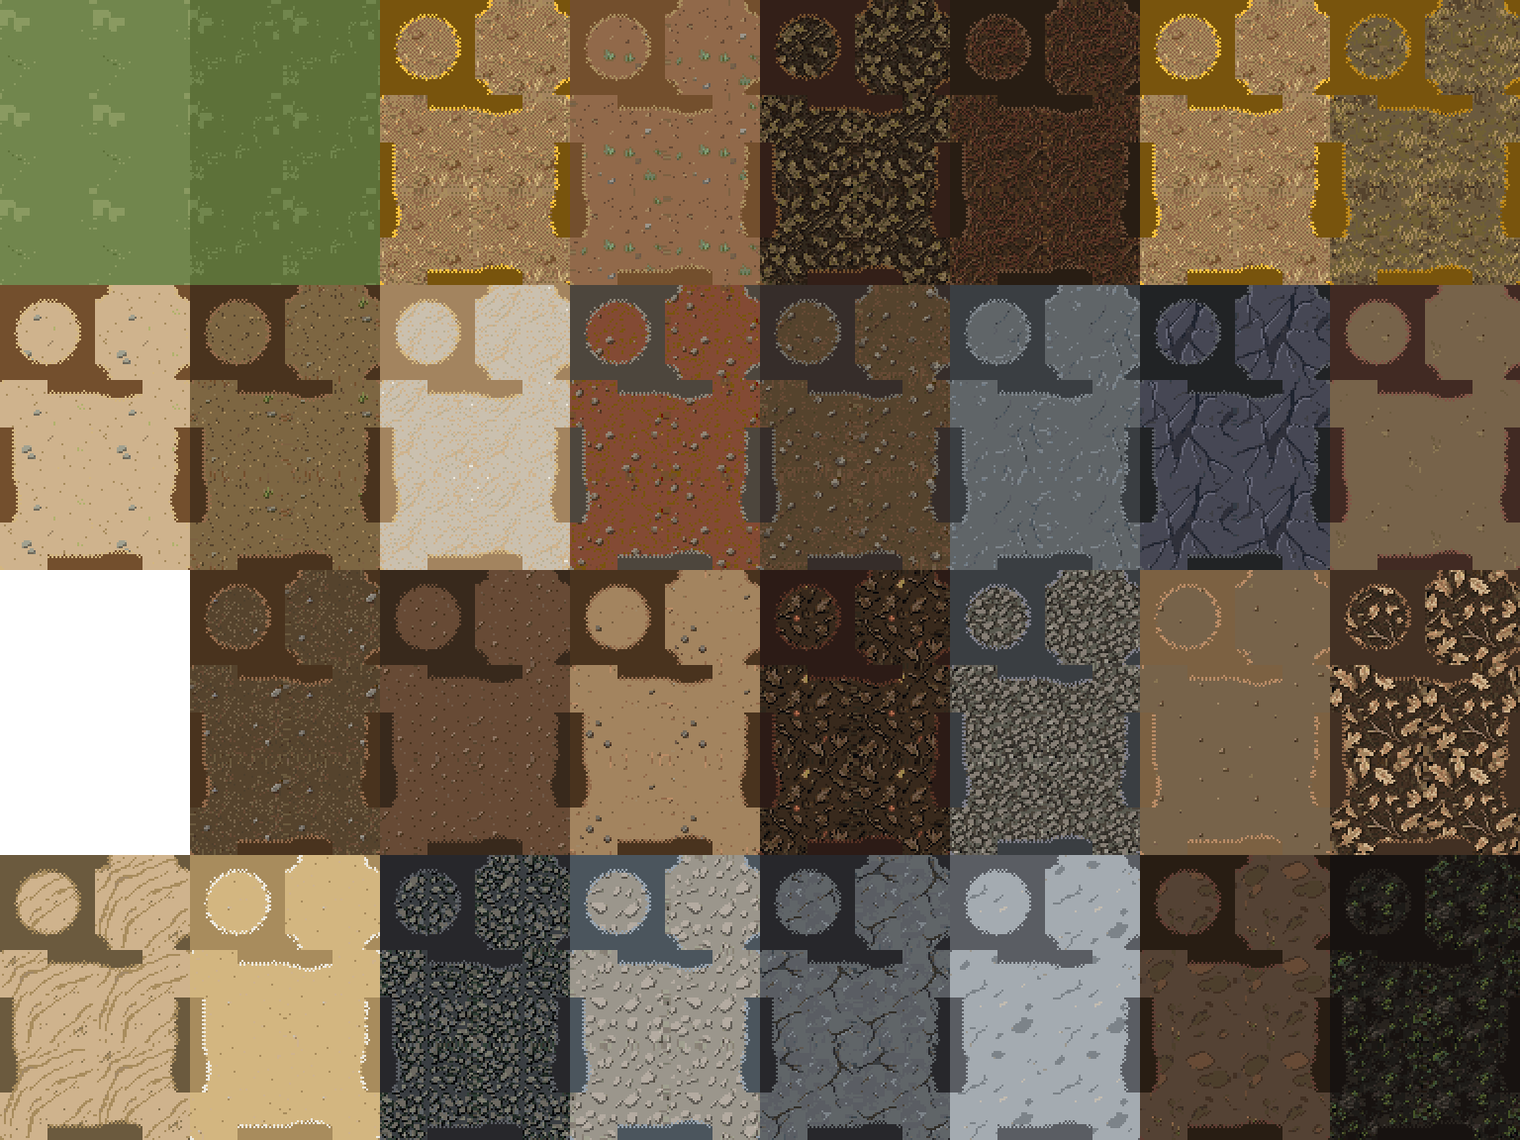
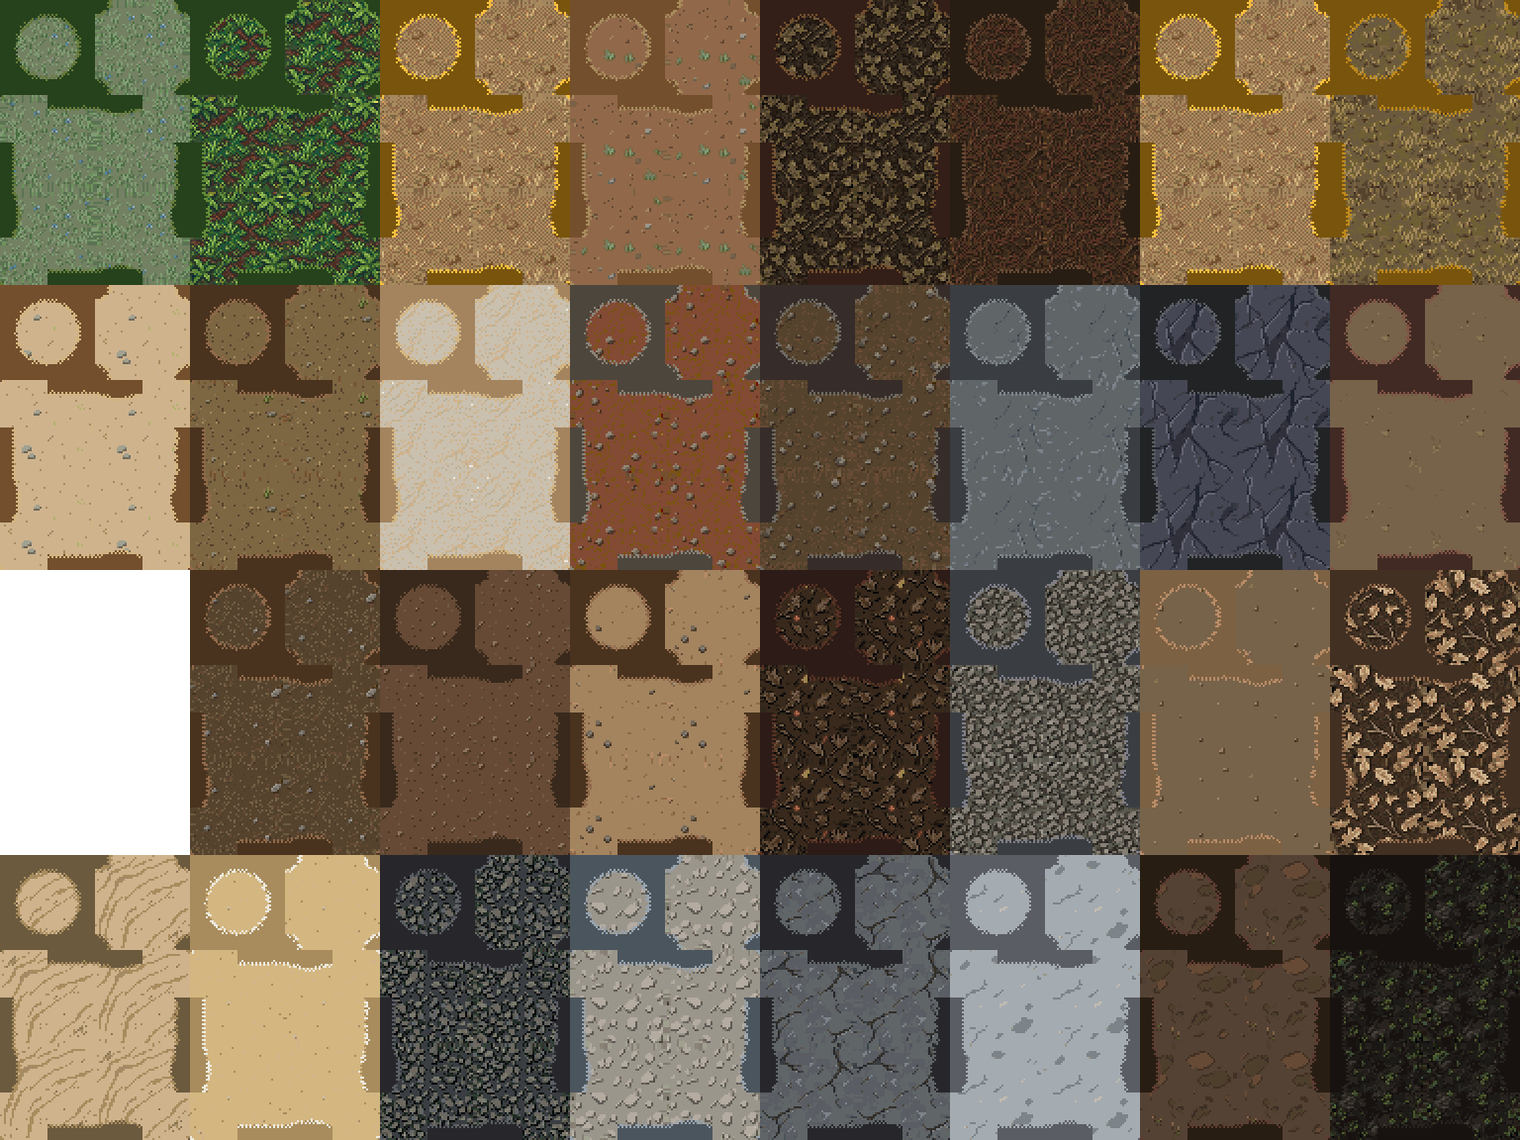
[codex] ART.GROUND.INDUCT place Owner base grasses

Changed region(s): [[0.0, 0.0, 0.25, 0.25]]

diff --git a/tools/art/verify_specimens_rgb.js b/tools/art/verify_specimens_rgb.js
@@ -4,15 +4,20 @@ const {selectedTile,buildA2Block,SPECS}=require('./induct_all_ground_tiles');
 const kept=require('./ground_kept_sets.json');
 const ROOT=path.resolve(__dirname,'../..');
 const mutant=process.argv.find(a=>a.startsWith('--mutant='))?.split('=')[1];
+const sheetRef=process.argv.find(a=>a.startsWith('--sheets-from='))?.split('=')[1];
 function fail(message){throw Error('[FAIL] '+message)}
-function image(name,w,h){const p=path.join(ROOT,'game/img/tilesets',name);if(!fs.existsSync(p))fail('missing '+name);const im=decodePNG(fs.readFileSync(p));if(im.width!==w||im.height!==h)fail(name+' dimensions '+im.width+'x'+im.height);return im}
+function image(name,w,h){const p=path.join(ROOT,'game/img/tilesets',name);if(!sheetRef&&!fs.existsSync(p))fail('missing '+name);const bytes=sheetRef?cp.execFileSync('git',['show',sheetRef+':game/img/tilesets/'+name],{cwd:ROOT,maxBuffer:8*1024*1024}):fs.readFileSync(p);const im=decodePNG(bytes);if(im.width!==w||im.height!==h)fail(name+' dimensions '+im.width+'x'+im.height);return im}
 function block(im,slot){const out=Buffer.alloc(96*144*4),x=(slot%8)*96,y=Math.floor(slot/8)*144;for(let row=0;row<144;row++)im.data.copy(out,row*96*4,((y+row)*768+x)*4,((y+row)*768+x+96)*4);return out}
 function baseline(name){return decodePNG(cp.execFileSync('git',['show','a5255704:game/img/tilesets/'+name],{cwd:ROOT,maxBuffer:8*1024*1024}))}
+function mainSheet(name){return decodePNG(cp.execFileSync('git',['show','origin/main:game/img/tilesets/'+name],{cwd:ROOT,maxBuffer:8*1024*1024}))}
 function swatch(im,i){const out=Buffer.alloc(48*48*4),x=(Math.floor(i/128)*8+i%8)*48,y=Math.floor((i%128)/8)*48;for(let row=0;row<48;row++)im.data.copy(out,row*48*4,((y+row)*768+x)*4,((y+row)*768+x+48)*4);return out}
-function masterSwatch(outside,slot){const out=Buffer.alloc(48*48*4),x=slot*96+24,y=72;for(let row=0;row<48;row++)outside.data.copy(out,row*48*4,((y+row)*768+x)*4,((y+row)*768+x+48)*4);return out}
+const MASTER={meadow:{folder:'SURFACE_SHARED_TERRAIN_MEADOW_V1_DEFAULT',slot:0,edge:'#26421C',hi:'#5D7139'},tropical_grass:{folder:'SURFACE_SHARED_TERRAIN_TROPICAL-GRASS_V1_DEFAULT',slot:1,edge:'#1B3B18',hi:'#6E8A38'}};
+function masterTile(key){const file=path.join(ROOT,'art/masters/source_sets',MASTER[key].folder,'variant_0.png'),im=decodePNG(fs.readFileSync(file));if(im.width!==48||im.height!==48)fail(key+' master dimensions');return Buffer.from(im.data)}
 try{
  const blocks={},tiles={};
  for(const [key,spec] of Object.entries(SPECS)){tiles[key]=selectedTile(key);blocks[key]=buildA2Block(tiles[key],spec.edge,spec.hi)}
+ for(const [key,spec] of Object.entries(MASTER)){tiles[key]=masterTile(key);blocks[key]=buildA2Block(tiles[key],spec.edge,spec.hi)}
+ const mainOutside=mainSheet('Outside_A2.png'),mainD=mainSheet('Outside_D.png');
  for(const [name,selection] of [['Outside_A2.png',kept.expectedOutsideSlots],['Dungeon_A2.png',kept.expectedDungeonSlots]]){
   const actual=image(name,768,576),old=baseline(name);
   const order=name==='Outside_A2.png'?[4,...Array.from({length:32},(_,i)=>i).filter(i=>i!==4)]:Array.from({length:32},(_,i)=>i);
@@ -21,20 +26,24 @@ try{
    const expected=key&&blocks[key]?blocks[key]:block(old,slot);
    let got=block(actual,slot);
    if(mutant==='outside-source'&&name==='Outside_A2.png'&&slot===4)got=blocks.shrub_soil_base;
-   if(key&&!(name==='Outside_A2.png'&&slot<2)&&got.every((value,index)=>index%4!==3||value===0))fail(name+' slot '+slot+' fully transparent');
+   if(mutant==='grass-slot-'+slot&&name==='Outside_A2.png'&&slot<2)got=block(mainOutside,slot);
+   if(key&&got.every((value,index)=>index%4!==3||value===0))fail(name+' slot '+slot+' fully transparent');
    if(!got.equals(expected))fail(name+' slot '+slot+' is not '+(key||'the specified baseline exception'));
+   if(name==='Outside_A2.png'&&slot<2&&got.equals(block(mainOutside,slot)))fail(name+' slot '+slot+' still equals origin/main');
   }
   console.log('[OK] '+name+' 32 slots match table sets, stand-ins or named baseline exceptions');
  }
  image('Outside_A1.png',768,576);
  const gallery=image('DEUS_GroundVar_D.png',768,768),outsideD=image('Outside_D.png',768,768);
  if(!gallery.data.equals(outsideD.data))fail('Outside_D differs from gallery');
- const oldOutside=baseline('Outside_A2.png');
  for(let i=0;i<256;i++){
-  const key=kept.expectedGallerySlots[i],got=swatch(gallery,i);
+  const key=kept.expectedGallerySlots[i];let got=swatch(gallery,i);
+  if(mutant==='grass-d-'+i&&i<2)got=swatch(mainD,i);
   if(!key){if(got.some(Boolean))fail('extra gallery pixel '+i);continue}
-  const expected=key==='meadow'||key==='tropical_grass'?masterSwatch(oldOutside,key==='meadow'?0:1):tiles[key];
+  const expected=tiles[key];
   if(!got.equals(expected))fail('gallery swatch '+i+' '+key);
+  if(i<2&&got.equals(swatch(mainD,i)))fail('Outside_D swatch '+i+' still equals origin/main');
  }
- console.log('[OK] gallery and Outside_D match all 34 kept sets, two owner masters and three stand-in swatches');
+ console.log('[OK] gallery and Outside_D match all 34 kept sets, two Owner masters and three stand-in swatches');
+ console.log('[OK] Outside A2 slots 0/1 and Outside D swatches 0/1 derive from Owner masters and differ from origin/main');
 }catch(e){console.error(e.message);process.exit(1)}

diff --git a/tools/art/induct_all_ground_tiles.js b/tools/art/induct_all_ground_tiles.js
@@ -5,8 +5,8 @@
  * tools/art/induct_all_ground_tiles.js
  *
  * Places the ground set table from both Owner backup batches. Missing dry and
- * damp variants borrow their placed base block. The two missing base kinds
- * retain their pre-lane pixels.
+ * damp variants borrow their placed base block. The two base grasses come
+ * from the Owner masters carried over from lane-cy.
  */
 
 const fs = require('fs');
@@ -215,6 +215,10 @@ const STAND_INS = [
   'Dungeon A2 slot 6 swamp_mud_dry retains its stock block (PM exception): no kept base set, and a blank autotile draws nothing',
   'Dungeon A2 slot 1 dug_earth retains its stock block: no kept set'
 ];
+const OWNER_MASTERS = {
+  meadow: {folder:'SURFACE_SHARED_TERRAIN_MEADOW_V1_DEFAULT',edge:'#26421C',hi:'#5D7139'},
+  tropical_grass: {folder:'SURFACE_SHARED_TERRAIN_TROPICAL-GRASS_V1_DEFAULT',edge:'#1B3B18',hi:'#6E8A38'}
+};
 
 function sourceFile(id,fillTile) {
   const filename=id+'__'+String(fillTile).padStart(2,'0')+'.png';
@@ -246,10 +250,11 @@ function selectedTile(key) {
 function blit(dst,dstWidth,src,srcWidth,x0,y0,w,h) {
   for(let y=0;y<h;y++)src.copy(dst,((y0+y)*dstWidth+x0)*4,y*srcWidth*4,(y*srcWidth+w)*4);
 }
-function masterFromBaseline(outside,slot) {
-  const tile=Buffer.alloc(48*48*4),x=slot*96+24,y=72;
-  for(let row=0;row<48;row++)outside.copy(tile,row*48*4,((y+row)*768+x)*4,((y+row)*768+x+48)*4);
-  return tile;
+function ownerMasterTile(key) {
+  const file=path.join(ROOT,'art/masters/source_sets',OWNER_MASTERS[key].folder,'variant_0.png');
+  const img=decodePNG(fs.readFileSync(file));
+  if(img.width!==48 || img.height!==48) throw Error('Owner master dimensions: '+file);
+  return Buffer.from(img.data);
 }
 function baseline(name) {
   // Fixed lane opening SHA is the pre-induction game. It remains available in gate clones.
@@ -278,10 +283,15 @@ function build() {
     },null,2)+'\n');
     console.log('SOURCE',key,id,fillTile);
   }
+  for(const [key,spec] of Object.entries(OWNER_MASTERS)) {
+    tiles[key]=ownerMasterTile(key);
+    blocks[key]=buildA2Block(tiles[key],spec.edge,spec.hi);
+    console.log('OWNER_MASTER',key,spec.folder);
+  }
   const outside=baseline('Outside_A2.png');
   const dungeon=baseline('Dungeon_A2.png');
   for(const [slot,key] of Object.entries(OUTSIDE_SLOTS)) {
-    if(!key || key==='meadow' || key==='tropical_grass')continue;
+    if(!key)continue;
     const n=Number(slot);blit(outside,768,blocks[key],96,(n%8)*96,Math.floor(n/8)*144,96,144);
   }
   for(const [slot,key] of Object.entries(DUNGEON_SLOTS)) {
@@ -292,8 +302,6 @@ function build() {
   writePNG(path.join(outDir,'Outside_A2.png'),768,576,outside);
   writePNG(path.join(outDir,'Dungeon_A2.png'),768,576,dungeon);
   const gallery=Buffer.alloc(768*768*4);
-  tiles.meadow=masterFromBaseline(outside,0);
-  tiles.tropical_grass=masterFromBaseline(outside,1);
   for(const [index,key] of Object.entries(GALLERY_SLOTS)) {
     const i=Number(index),x=(i%8)*48,y=Math.floor(i/8)*48;
     blit(gallery,768,tiles[key],48,x,y,48,48);

diff --git a/tasks/ART.GROUND.INDUCT/lane-cy2/REPORT.md b/tasks/ART.GROUND.INDUCT/lane-cy2/REPORT.md
@@ -1,88 +1,75 @@
-# ART.GROUND.INDUCT lane-cy2 fix report — 2026-10-01
+# ART.GROUND.INDUCT lane-cy2 writer report — 2026-10-01
 
-This report covers the fix after Grok's review of `86c51fd9`. The earlier `WRITER_REPORT.md` records that superseded 15-set attempt.
+This records the repair after Grok's review of `f35297c6`. The review file and brief were read and left unchanged. The previous screenshots and test details remain in Git history; only checks listed below were run for this repair.
 
 ## What changed
 
-- `tools/art/ground_kept_sets.json`: mapped all 34 set-bearing rows of the brief's table to their kept PixelLab IDs, solid tile index, slot, and catalogue source ID. The allowlist contains those 34 IDs and two unselected alternatives; no deleted ID is present. Meadow and tropical grass remain the two existing Owner masters.
-- `tools/art/induct_all_ground_tiles.js` and `art/masters/source_sets/*`: read the 2026-09-30 and 2026-10-01 backups, palette-snap the selected solid tiles, rebuild A2/D sheets, and record source provenance. Outside slot 6 borrows the newly placed dry grass base; Dungeon slots 3 and 4 borrow the newly placed peak rock base. Outside slot 16 retains main's transparent swamp mud base. Dungeon slot 6 retains its stock swamp mud dry block as the PM exception, and slot 1 retains stock dug earth.
-- `game/img/tilesets/{Outside_A2,Dungeon_A2,Outside_D,DEUS_GroundVar_D}.png`: placed the table's sets and stand-ins in the existing slot layout. Outside A2 slots 0 and 1 and the stock Outside A1 sheet remain unchanged.
-- `game/data/Tilesets.json`: set `tilesetNames[7]` to `Outside_D` on tilesets 2 and 4. `set_outside_d.js` made the parsed-array edit and wrote the existing one-line-per-tileset format. Git reports a two-line replacement.
-- `tools/art/verify_specimens_rgb.js` and `tools/art/test_ground_kept_sets.js`: check every table-mapped RGB block against its own source, reject transparent mapped slots, enforce the named base/stock exceptions, check D gallery swatches, and require the D name on exactly tilesets 2 and 4.
-- `art/catalogue/*` and `docs/art/catalogue/*`: rebuilt after the sheet change; the generated files were byte-identical to the existing catalogue outputs, so they have no Git diff.
-- `tasks/ART.GROUND.INDUCT/lane-cy2/{regression_86.js,render_ground_boards.js,evidence/*}`: reproducible baseline rejection, 2× boards, and New Game snapshot evidence.
+- `art/masters/source_sets/SURFACE_SHARED_TERRAIN_MEADOW_V1_DEFAULT/` and `SURFACE_SHARED_TERRAIN_TROPICAL-GRASS_V1_DEFAULT/`: copied both Owner master folders from `origin/task/lane-cy` with `git checkout`. Their source PNG pixels were not edited.
+- `tools/art/induct_all_ground_tiles.js`: read each `variant_0.png` as the 48×48 base tile; use lane-cy's meadow and tropical edge/highlight values in `buildA2Block`, place the blocks in Outside A2 slots 0 and 1, and place the base tiles in D swatches 0 and 1. Removed both baseline-grass copies and the skip. The other table mappings and no-set exceptions remain as previously reviewed.
+- `game/img/tilesets/Outside_A2.png`, `Outside_D.png`, and `DEUS_GroundVar_D.png`: rebuilt with those two master grasses. The converter also rebuilt `Dungeon_A2.png`, which was byte-identical to the prior file.
+- `tools/art/verify_specimens_rgb.js`: independently reconstruct both blocks and swatches from the master PNGs, require the four placements to differ from `origin/main`, and support reading a historical sheet ref for regression checks. The prior all-slot and gallery checks still run.
+- `tasks/ART.GROUND.INDUCT/lane-cy2/evidence/outside_a2_all_32_2x.png`: regenerated the complete 32-slot board at 2× and opened it.
+- Ran `node tools/art/build_catalogue.js`. It reported 12 files written; the generated catalogue files had no Git diff.
 
 ## How I tested it
 
-- Opened the 2× source pair board. Each row shows tile 0 on the left and tile 15 on the right, in `ground_kept_sets.json` key order. The brief's selected side reads as its named terrain; for example, sand damp uses the tan tile while its other solid tile is meadow green. No `fillTile` correction was needed.
-- `node tasks/ART.GROUND.INDUCT/lane-cy2/regression_86.js` temporarily substituted the exact 86c51fd9 A2 and Tilesets bytes, ran the new checks in the foreground, and restored the current bytes in a `finally` block:
-  ```text
-  86c51fd9 A2 RGB check exit=1
-  [FAIL] Outside_A2.png slot 4 fully transparent
-  86c51fd9 D sheet check exit=1
-  [FAIL] Tilesets 2 D sheet must be Outside_D and be the only name change
-  ```
-- Named mutants at the repaired tip also exited 1: `--mutant=outside-source` reported `[FAIL] Outside_A2.png slot 4 is not forest_floor_base`; `--mutant=d-name` reported `[FAIL] Tilesets 2 D sheet must be Outside_D and be the only name change`.
-- Rebuilt the catalogue with `node tools/art/build_catalogue.js`: `BUILD: OK (10194 entries, 206 sheets, 242 outOfScope, 12 files written)`.
-- Ran the manifest's five `gateTests` commands in the foreground, one at a time, after the rebuild:
+- Before rebuilding sheets, ran the new verifier against the worktree's unchanged f35297c6 images. It exited 1: `[FAIL] Outside_A2.png slot 0 is not meadow`. After rebuilding, the explicit historical run `node tools/art/verify_specimens_rgb.js --sheets-from=f35297c6` gave the same exit 1 and message. `HEAD:game/img/tilesets/Outside_A2.png` and `f35297c6:game/img/tilesets/Outside_A2.png` both had Git blob `568eddd62f44b0fbe61b3611929c09b37c8e8bea` before rebuilding.
+- Compared the rebuilt A2 blocks 0 and 1 with `origin/task/lane-cy:game/img/tilesets/Outside_A2.png`: both byte comparisons printed `true`.
+- Mutated each grass placement separately in the verifier, substituting main's tiles. All four runs exited 1: `grass-slot-0` → `[FAIL] Outside_A2.png slot 0 is not meadow`; `grass-slot-1` → `[FAIL] Outside_A2.png slot 1 is not tropical_grass`; `grass-d-0` → `[FAIL] gallery swatch 0 meadow`; `grass-d-1` → `[FAIL] gallery swatch 1 tropical_grass`.
+- Ran all five `lane.json` gate commands in the foreground, one at a time, after rebuilding:
+
   ```text
   node tools/check_deus_syntax.js                 exit=0  Checked 62 DEUS plugin files. Errors: 0
-  node tools/art/verify_specimens_rgb.js          exit=0  Outside A2 32 slots; Dungeon A2 32 slots; gallery and Outside D matched
-  node tools/art/test_ground_kept_sets.js         exit=0  34 table sets, Map001 identity, and Tilesets 2/4 Outside_D passed
+  node tools/art/verify_specimens_rgb.js          exit=0  [OK] Outside A2 slots 0/1 and Outside D swatches 0/1 derive from Owner masters and differ from origin/main
+  node tools/art/test_ground_kept_sets.js         exit=0  [OK] Tilesets 2/4 load Outside_D; diff touches only those two one-line entries and their D names
   node tools/art/build_catalogue.js --check       exit=0  CHECK: OK (12 generated files match)
   node tools/art/test_catalogue.js                exit=0  50/50 checks passed
   ```
-- Updated the disposable lane-cy2 game copy with the repaired sheets and Tilesets JSON, then ran `node tools/run_tests.js ground_evidence --game <disposable copy>` in the foreground. Its New Game run reported `RESULT: 3 passed, 0 failed (exit 0)`. Both screenshots were opened.
 
 ## Evidence
 
-- [Outside A2 all 32 slots at 2×](evidence/outside_a2_all_32_2x.png): opened; eight columns by four rows show meadow/grass, soil, forest litter, rock, mud, dirt, scree and sand. Slot 16 at row 3 column 1 is the sole blank, matching the no-base-set exception. Some selected sets show the seams noted in the brief.
-- [Source solid pairs at 2×](evidence/source_solid_pairs_2x.png): opened; all 34 selected sets show tile 0 beside tile 15 in JSON key order, allowing the named terrain to be distinguished from its partner.
-- [New Game ground kinds at 2×](evidence/new_game_ground_kinds_fix_2x.png): opened; adjacent bands show dry grass base/damp, marsh mud, dirt states, road, sand states and meadow, with no blank band.
-- [New Game damp/dry at 2×](evidence/new_game_damp_dry_fix_2x.png): opened; the brown dirt states and pale sand states appear in repeated columns and remain visibly distinct.
-- Opened `Dungeon_A2.png`: peak rock slots 3 and 4 repeat the base rock block; slot 6 is the retained dark stock block and slot 1 the stock dug-earth block. Opened `Outside_D.png`: the selected swatches occupy the original gallery positions; unused cells are transparent.
-- [Snapshot log](evidence/snapshot_results_fix.txt), trimmed:
+- [All 32 Outside A2 slots at 2×](evidence/outside_a2_all_32_2x.png): opened. Slot 0, top left, is detailed light meadow grass with small blue and yellow flowers. Slot 1 immediately beside it is dense green leaves with red berries. The remaining 30 slots show the previously selected soil, litter, rock, sand, mud, dirt and scree blocks; slot 16 is the previously documented transparent swamp-mud exception. The grasses now differ visibly from the prior flat olive placeholders.
+- The passing specimen command printed:
+
   ```text
-  PASS ground_evidence.surface_kinds_at_2x - camera 2, map 256x256, origin 124,125
-  PASS ground_evidence.damp_dry_tiles
-  PASS ground_evidence.no_errors - none
-  RESULT: 3 passed, 0 failed (exit 0)
+  [OK] Outside_A2.png 32 slots match table sets, stand-ins or named baseline exceptions
+  [OK] Dungeon_A2.png 32 slots match table sets, stand-ins or named baseline exceptions
+  [OK] gallery and Outside_D match all 34 kept sets, two Owner masters and three stand-in swatches
+  [OK] Outside A2 slots 0/1 and Outside D swatches 0/1 derive from Owner masters and differ from origin/main
   ```
 
 ## Not done / known problems
 
-- Independent Grok review and PM merge remain pending; this writer report is not a review verdict.
-- Outside A2 slot 16 stays transparent because swamp_mud_base has no kept set. Dungeon A2 slot 6 keeps stock artwork because a blank autotile would draw nothing. Dungeon slot 1 is also stock.
-- The brief marks visible seams in shrub soil dry, forest floor dry, rock base, scree damp/dry and mined stone. This fix places the PM's selected sources; it does not replace or regrade them.
-- The catalogue's existing moisture-variant logic may still label some newly sourced variants `MISSING`; its hardcoded status rules are outside this lane's paths.
-- The RMMZ editor stayed closed under DEC-059. Literal editor F5/F8 was not run; the disposable New Game snapshot harness provided the in-engine evidence. Reopen the project after this data-file change.
+- Independent Grok review of this new writer SHA and PM integration through `merge_gate` remain pending. This report is writer evidence, not a review verdict.
+- Literal RMMZ editor F5/F8 and a new disposable New Game snapshot were not run for this repair. Earlier snapshot screenshots were made before slots 0 and 1 were corrected, so they do not prove the new grasses in engine. The editor remained closed under DEC-059.
+- Outside A2 slot 16 remains transparent because swamp_mud_base has no kept set. Dungeon A2 slots 1 and 6 retain the prior stock exceptions. Several selected source sets have visible seams identified in the brief.
 - `docs/STATUS.md` and `art/APPROVALS.md` are outside this manifest's allowed paths and were not edited.
 
 ## Try it in RMMZ
 
 1. After independent review and PM integration, reopen the project in RPG Maker MZ and start a New Game.
-2. Inspect adjacent Outside A2 ground kinds and Dungeon A2 peak rock, dug earth and swamp dry tiles. Compare with the linked 2× screenshots.
+2. Inspect Outside A2 meadow and tropical grass beside the other ground kinds; compare slots 0 and 1 with the opened board.
 
-Expected: table-selected terrain fills its documented A2 slots; tilesets 2 and 4 load Outside D; the named no-set exceptions retain their documented pixels.
+Expected: meadow shows small flowers and tropical grass shows dense leaves and berries, matching the Owner masters; tilesets 2 and 4 still load Outside D. This editor observation is pending.
 
 ## Decisions needed
 
 - Independent reviewer verdict and PM integration through `merge_gate`.
-- Any later replacement of the known-seam sets or the swamp mud base requires the PM/Owner art process.
+- PM/Owner decision on any later replacement of the documented no-set or seamed source exceptions.
 
 ## GAME TRANSLATION
 
 | Field | Lane result |
 |---|---|
-| Player / World Effect | A. DIRECT PLAYER-VISIBLE: ground kinds now display the Owner's table-selected textures. |
-| Trigger | New Game or any map rendering these Outside A2, Dungeon A2, or D tile IDs. |
-| Runtime Authority | RPG Maker MZ tileset names and tile IDs; no simulation authority changed. |
-| Simulation Path | Existing world generation emits tile IDs; the repaired sheets supply their pixels. |
-| Engine Bridge | `Tilesets.json` binds Outside A2 and Dungeon A2; entries 2 and 4 now also bind Outside D. |
-| Visible Result | The opened 2× New Game screenshots and all-slot board above. |
+| Player / World Effect | A. DIRECT PLAYER-VISIBLE: ground textures for meadow, tropical grass, and the other selected kinds appear wherever their tile IDs are drawn. |
+| Trigger | New Game or map rendering Outside A2, Dungeon A2, or D tile IDs. |
+| Runtime Authority | RPG Maker MZ tile IDs and tileset names; no simulation logic changed. |
+| Simulation Path | Existing world generation emits tile IDs; these sheets provide pixels for them. |
+| Engine Bridge | `Tilesets.json` binds Outside A2 and Dungeon A2; entries 2 and 4 bind Outside D. |
+| Visible Result | The opened 2× board shows the corrected sheet. New in-engine proof of the corrected grasses is pending. |
 | Persistence | Saves retain tile IDs; no save schema changed. |
-| Failure Without This Lane | Eighteen Outside A2 slots are transparent at 86c51fd9, Dungeon peak states remain stock, and D never loads. |
-| Automated Proof | Baseline rejection, source RGB and transparency checks, D name/diff checks, and all five manifest gates above. |
-| In-Game Proof | Disposable New Game snapshot suite: 3 passed, 0 failed. Literal editor F5/F8 not run. |
+| Failure Without This Lane | Meadow and tropical grass remain main's flat placeholders in A2 and D. |
+| Automated Proof | Historical f35297c6 rejection, four targeted mutants, source/block comparison, and five passing manifest gates above. |
+| In-Game Proof | Previous disposable New Game snapshots covered the prior sheet. Corrected grass has not been checked in engine. |
 
-Simulation implemented: NO (art-only). Engine bridge implemented: YES (Tilesets D bindings). Presentation implemented: YES (A2/D sheets). Input/player interaction implemented: NO (art-only). Save/load implemented: NO (tile IDs unchanged). Playable verification performed: YES in the disposable New Game harness; literal editor F5 remains untested.
+Simulation implemented: NO (art only). Engine bridge implemented: YES (existing sheet bindings plus D names). Presentation implemented: YES (sheet pixels). Input/player interaction implemented: NO (art only). Save/load implemented: NO (tile IDs unchanged). Playable verification performed: NO for the corrected grasses; literal editor F5/F8 remains untested.
